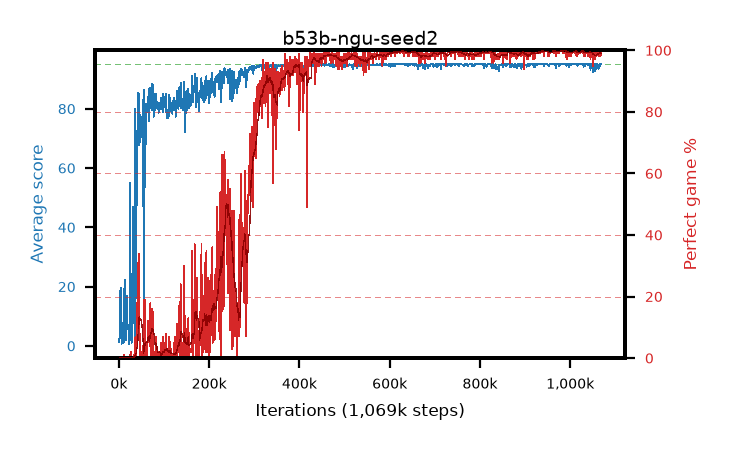
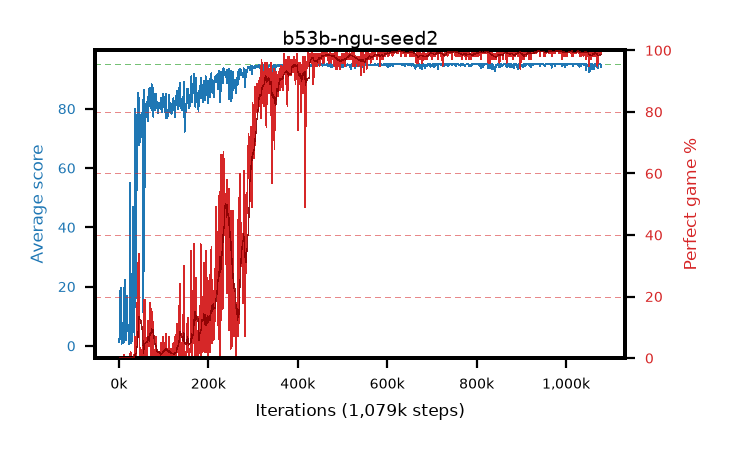
live pictures of 4 arm(s)

diff --git a/results/b53b-ngu-seed2/b53b-ngu-seed2.md b/results/b53b-ngu-seed2/b53b-ngu-seed2.md
@@ -1,6 +1,6 @@
 # b53b-ngu-seed2
 
-step **1,069,000** · 1069 evals · trailing **94.5** · peak **94.96** @1,028,000 · sef **70.8** · best30 **99.8** @983,000
+step **1,079,000** · 1079 evals · trailing **94.48** · peak **94.96** @1,028,000 · sef **71.1** · best30 **99.8** @983,000
 
 ## Config
 
@@ -80,15 +80,15 @@ step **1,069,000** · 1069 evals · trailing **94.5** · peak **94.96** @1,028,0
 | 2000 | 6.04 | 3.73 | 0.0 | 19.0 | 3.28 | 0.0 | 0.4 |
 | 3000 | 18.06 | 8.5 | 1.0 | 40.0 | 15.298 | 0.0 | 0.4 |
 | ... | ... | ... | ... | ... | ... | ... | ... |
-| 1058000 | 93.36 | 94.58 | 8.0 | 95.0 | 190.009 | 98.0 | 0.4 |
-| 1059000 | 95.0 | 94.58 | 95.0 | 95.0 | 193.712 | 100.0 | 0.4 |
-| 1060000 | 95.0 | 94.61 | 95.0 | 95.0 | 193.721 | 100.0 | 0.4 |
-| 1061000 | 94.22 | 94.59 | 17.0 | 95.0 | 191.903 | 99.0 | 0.4 |
-| 1062000 | 94.09 | 94.55 | 4.0 | 95.0 | 191.797 | 99.0 | 0.4 |
-| 1063000 | 93.46 | 94.52 | 15.0 | 95.0 | 190.107 | 98.0 | 0.4 |
-| 1064000 | 94.98 | 94.52 | 93.0 | 95.0 | 192.656 | 99.0 | 0.4 |
-| 1065000 | 94.29 | 94.5 | 27.0 | 95.0 | 190.974 | 98.0 | 0.4 |
-| 1066000 | 95.0 | 94.5 | 95.0 | 95.0 | 193.711 | 100.0 | 0.4 |
-| 1067000 | 94.95 | 94.5 | 92.0 | 95.0 | 191.581 | 98.0 | 0.4 |
 | 1068000 | 94.95 | 94.5 | 90.0 | 95.0 | 192.661 | 99.0 | 0.4 |
 | 1069000 | 94.98 | 94.5 | 93.0 | 95.0 | 192.641 | 99.0 | 0.4 |
+| 1070000 | 93.96 | 94.46 | 48.0 | 95.0 | 187.52 | 95.0 | 0.4 |
+| 1071000 | 95.0 | 94.46 | 95.0 | 95.0 | 193.714 | 100.0 | 0.4 |
+| 1072000 | 93.74 | 94.42 | 34.0 | 95.0 | 188.34 | 96.0 | 0.4 |
+| 1073000 | 94.99 | 94.42 | 94.0 | 95.0 | 192.647 | 99.0 | 0.4 |
+| 1074000 | 95.0 | 94.42 | 95.0 | 95.0 | 193.698 | 100.0 | 0.4 |
+| 1075000 | 94.97 | 94.48 | 92.0 | 95.0 | 192.636 | 99.0 | 0.4 |
+| 1076000 | 95.0 | 94.48 | 95.0 | 95.0 | 193.716 | 100.0 | 0.4 |
+| 1077000 | 95.0 | 94.49 | 95.0 | 95.0 | 193.701 | 100.0 | 0.4 |
+| 1078000 | 94.97 | 94.5 | 92.0 | 95.0 | 192.652 | 99.0 | 0.4 |
+| 1079000 | 94.23 | 94.48 | 18.0 | 95.0 | 191.901 | 99.0 | 0.4 |
